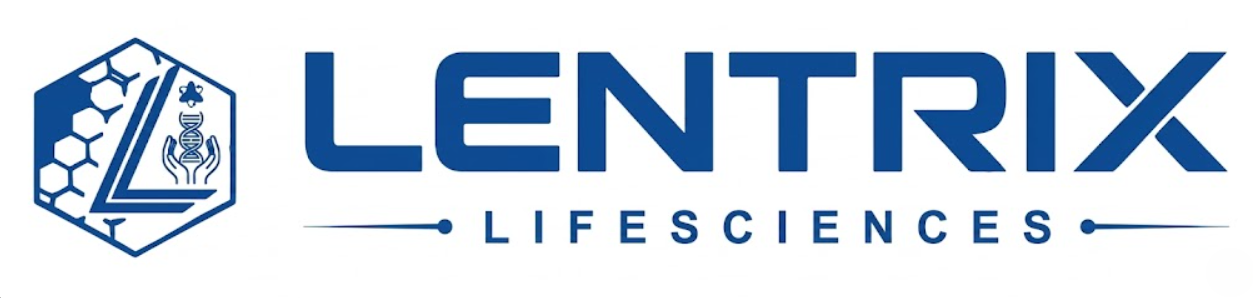
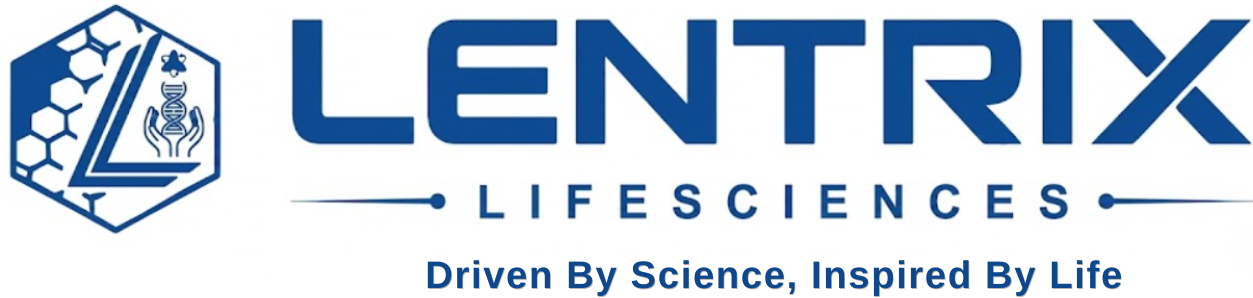
Revamp About & Home content, styles
Rewrite About page copy to reflect new brand positioning and founder details; adjust section structure (owner info, certifications) and tweak component props (CertificationShowcase). Update owner image alt text. Modify Home hero heading and subtext to match new messaging. Replace LENTRIX logo image asset. Large CSS refactor for About.css: alter owner-photo appearance (shape, border, background), remove blue gradient, add responsive icon-card styles (grid, shadows, hover), introduce strength-list and mission-tagline styles, and ensure certification wrapper displays badges correctly.

diff --git a/src/pages/About us.jsx b/src/pages/About us.jsx
@@ -1,3 +1,13 @@
+
+
+
+
+
+
+
+
+
+
 import "./About.css";
 import CertificationShowcase from "../components/CertificationShowcase";
 import { CERTIFICATIONS } from "../data/certifications";
@@ -15,66 +25,59 @@ export default function About() {
         </h1>
 
         <p className="sub-heading">
-          Committed to Health. Driven by Innovation.
+          Driven By Science, Inspired By Life
         </p>
 
         <div className="who-text">
           <p>
-            <strong>LENTRIX</strong> is a company focused on delivering affordable
-            healthcare to society. Our products are formulated based on three major
-            parameters - <strong>Quality, Innovation,</strong> and <strong>Affordability.</strong>
+            <strong>LENTRIX LIFESCIENCES</strong> is one of the fastest growing pharmaceutical
+            company in India. Our branded generics business in India commands
+            a strong position in <strong>high-growth chronic therapies</strong> and <strong>strong positioning</strong> in
+            the acute segment. Over the past decade, we have been developing and
+            manufacturing affordable medicines for patients.
           </p>
 
           <p>
-            We are engaged in the mission of spreading good health and happiness by
-            offering reliable and affordable pharmaceutical formulations. Every
-            product reflects our dedication to strengthening healthcare outcomes.
+            Our innovation-led drug discovery processes ensure the health and well-being of people. 
+            Our enhanced investment in innovation and a strong track record in research and development 
+            have produced medical miracles that have changed lives and made a profound impact on real life.
           </p>
 
           <p>
-            LENTRIX is led by a team of seasoned professionals with deep expertise in
-            the healthcare domain. Our team works with a unidirectional and
-            patient-first approach, constantly striving to enhance lifestyle and
-            well-being.
-          </p>
-
-          <p>
-            At LENTRIX, <strong>people remain at the heart of our growth vision.</strong> Our
-            commitment to healthcare excellence drives every step we take.
+            Being a care-focused, research-driven company, we are committed to complying with the 
+            highest ethical standards in clinical research and medical practice. We want to be 
+            valued not only for our pharmaceutical products but also for the way we conduct our 
+            research and business activities.
           </p>
         </div>
       </section>
 
-      {/* ---------------- SPLIT SCREEN SECTION ---------------- */}
+      {/* ---------------- OWNER INFO SECTION ---------------- */}
       <section className="split-section">
         <div className="owner-profile">
           <div className="owner-photo-wrap">
-            <img src={ownerPhoto} alt="LENTRIX Owner" className="owner-photo" />
+            <img src={ownerPhoto} alt="Ashish Rajyaguru - Owner" className="owner-photo" />
           </div>
-          <div className="owner-badge">About Us</div>
         </div>
 
         <div className="split-text">
-          <h2 className="animated-title">
-            Our Commitment to Excellence
-            <span className="underline"></span>
-          </h2>
-
           <p>
-            At LENTRIX, we believe that good health is the foundation of a strong and
-            happy life. Our vision and mission revolve around creating high-quality,
-            accessible medicines for everyone.
+            <strong>LENTRIX</strong> is a leading pharmaceutical company based out of Ahmedabad 
+            which focuses on improving patient lives by identifying, developing, and commercializing 
+            innovative products that address diverse medical needs.
+          </p>
+          
+          <p>
+            <strong>LENTRIX LIFESCIENCES</strong> was founded by <strong>Mr. Ashish Rajyaguru</strong>, 
+            who is equipped with over <strong>15 years of proficiency</strong> in the pharmaceutical industry 
+            and expertise in leading functions right from research, manufacturing of formulations, 
+            Quality, and business development to Sales and marketing functions.
           </p>
         </div>
-
-        {/* <div className="split-image">
-          <img src="/src/assets/about-lab.jpg" alt="LENTRIX Laboratory" />
-        </div> */}
       </section>
 
-      {/* ---------------- ICON BLOCKS SECTION ---------------- */}
+      {/* ---------------- UPDATED CARD SECTION ---------------- */}
       <section className="icon-section">
-
         {/* Vision */}
         <div className="icon-box">
           <div className="icon-circle">
@@ -99,7 +102,7 @@ export default function About() {
             excellence in technology, service, and product quality.
           </p>
           <p className="mission-tagline">
-            Mission Statement: “Happiness to life by providing better health care solutions.”
+            "Happiness to life by providing better health care solutions."
           </p>
         </div>
 
@@ -109,27 +112,24 @@ export default function About() {
             <i className="fas fa-star"></i>
           </div>
           <h3>Our Strengths</h3>
-          <ul>
+          <ul className="strength-list">
             <li>Affordable formulations</li>
             <li>Quality-focused product basket</li>
             <li>Team of committed professionals</li>
           </ul>
         </div>
-
       </section>
 
+      {/* ---------------- CERTIFICATIONS SECTION ---------------- */}
       <section className="about-certifications">
         <div className="about-cert-head">
           <h2 className="animated-title">
             Compliance &amp; Quality Framework
             <span className="underline"></span>
           </h2>
-          <p className="sub-heading">
-            The same quality benchmarks trusted on our Home page, presented in
-            a compact format for About.
-          </p>
         </div>
         <div className="about-cert-wrap">
+          {/* Ensure CERTIFICATIONS array is not empty in your data file */}
           <CertificationShowcase items={CERTIFICATIONS} variant="about" />
         </div>
       </section>

diff --git a/src/pages/About.css b/src/pages/About.css
@@ -98,21 +98,21 @@
 .owner-photo-wrap {
     width: 100%;
     aspect-ratio: 3 / 4;
-    border-radius: 36px;
+    border-radius: 50px;
     padding: 10px;
-    background: linear-gradient(160deg, #1b5f91, #42a5db);
-    box-shadow: 0 16px 28px rgba(10, 58, 88, 0.2);
+    background: linear-gradient(90deg, #1b5f91, #42a5db);
+    /* box-shadow: 1px 2px 2px rgba(1, 28, 28, 0.2); */
 }
 
 .owner-photo {
     width: 100%;
     height: 100%;
     object-fit: cover;
-    border-radius: 28px;
-    border: 3px solid rgba(255, 255, 255, 0.85);
+    border-radius: 50px;
+    border: 0.2px solid rgba(255, 255, 255, 0.85);
 }
 
-.owner-badge {
+/* .owner-badge {
     position: absolute;
     top: -16px;
     right: -10px;
@@ -123,8 +123,8 @@
     padding: 10px 16px;
     font-weight: 700;
     box-shadow: 0 8px 20px rgba(10, 58, 88, 0.2);
-}
-/* 
+} */
+
 .split-text {
     flex: 1;
 } */
@@ -290,4 +290,105 @@
     .about-cert-wrap {
         padding: 12px;
     }
+}
+
+
+/* --- OWNER PHOTO: Removed Blue Border & Adjusted Shape --- */
+.owner-photo-wrap {
+    width: 100%;
+    aspect-ratio: 3 / 4;
+    border-radius: 40px; /* Matching inspiration style */
+    padding: 0; /* Removed padding that created the border */
+    background: transparent; /* Removed blue gradient background */
+    overflow: hidden;
+}
+
+.owner-photo {
+    width: 100%;
+    height: 100%;
+    object-fit: cover;
+    border-radius: 40px;
+    border: none; /* Removed border */
+}
+
+/* --- ICON CARDS: Updated to match inspiration image --- */
+.icon-section {
+    margin-top: 80px;
+    width: 85%;
+    margin-left: auto;
+    margin-right: auto;
+    display: grid;
+    grid-template-columns: repeat(auto-fit, minmax(300px, 1fr));
+    gap: 30px;
+}
+
+.icon-box {
+    background: #ffffff;
+    padding: 40px 30px;
+    border-radius: 25px; /* Softer corners */
+    /* Deep soft shadow like the reference */
+    box-shadow: 0 15px 35px rgba(0, 0, 0, 0.08); 
+    text-align: center;
+    transition: transform 0.3s ease;
+    display: flex;
+    flex-direction: column;
+    align-items: center;
+}
+
+.icon-box:hover {
+    transform: translateY(-10px);
+}
+
+.icon-circle {
+    width: 80px;
+    height: 80px;
+    background: #eef7ff; /* Light blue tint circle */
+    color: #0A79B4;
+    border-radius: 50%;
+    margin-bottom: 20px;
+    display: flex;
+    justify-content: center;
+    align-items: center;
+    font-size: 32px;
+}
+
+.icon-box h3 {
+    font-size: 1.6rem;
+    color: var(--color-navy-900);
+    margin-bottom: 15px;
+    font-weight: 700;
+}
+
+.icon-box p {
+    font-size: 1.05rem;
+    line-height: 1.6;
+    color: #4b5563;
+}
+
+.strength-list {
+    list-style: none;
+    padding: 0;
+    margin: 0;
+}
+
+.strength-list li {
+    margin-bottom: 8px;
+    color: #4b5563;
+    font-weight: 500;
+}
+
+.mission-tagline {
+    margin-top: 15px;
+    font-style: italic;
+    color: #1b5f91;
+    font-weight: 500;
+}
+
+/* --- CERTIFICATION FIX --- */
+/* Ensure the wrapper isn't hiding the badges */
+.about-cert-wrap {
+    min-height: 200px;
+    display: flex;
+    justify-content: center;
+    align-items: center;
 }

diff --git a/src/pages/Home.jsx b/src/pages/Home.jsx
@@ -148,14 +148,15 @@ export default function Home() {
             </p>
 
             <h1 id="hero-heading" data-reveal style={{ "--d": "80ms" }}>
-              Trusted formulations. Built for healthcare outcomes.
+              Driven By Science, Inspired By Life
             </h1>
 
             <p className="hero-subtext" data-reveal style={{ "--d": "140ms" }}>
-              LENTRIX LIFESCIENCES develops and markets quality-focused
-              formulations through world-class manufacturing partners—serving
-              prescribers, distributors, and patients with consistency and
-              integrity.
+              LENTRIX LIFESCIENCSE is one of the fastest growing pharmaceutical
+company in India, Our branded generics business in India commands
+strong position in high-growth chronic therapies and strong positioning in
+the acute segment, Over the past decade, we have been developing and
+manufacturing affordable medicines for the patients.
             </p>
 
             <div className="hero-buttons" data-reveal style={{ "--d": "220ms" }}>
@@ -308,7 +309,7 @@ export default function Home() {
       <section className="global section" aria-labelledby="global-heading">
         <div className="container global-inner">
           <div className="global-copy" data-reveal>
-            <h2 id="global-heading">Global presence &amp; export vision</h2>
+            <h2 id="global-heading">Global Presence &amp; Export Vision</h2>
             <p className="section-lead">
               We are building a future-ready distribution footprint—designed for
               compliance, traceability, and consistent product availability as we
